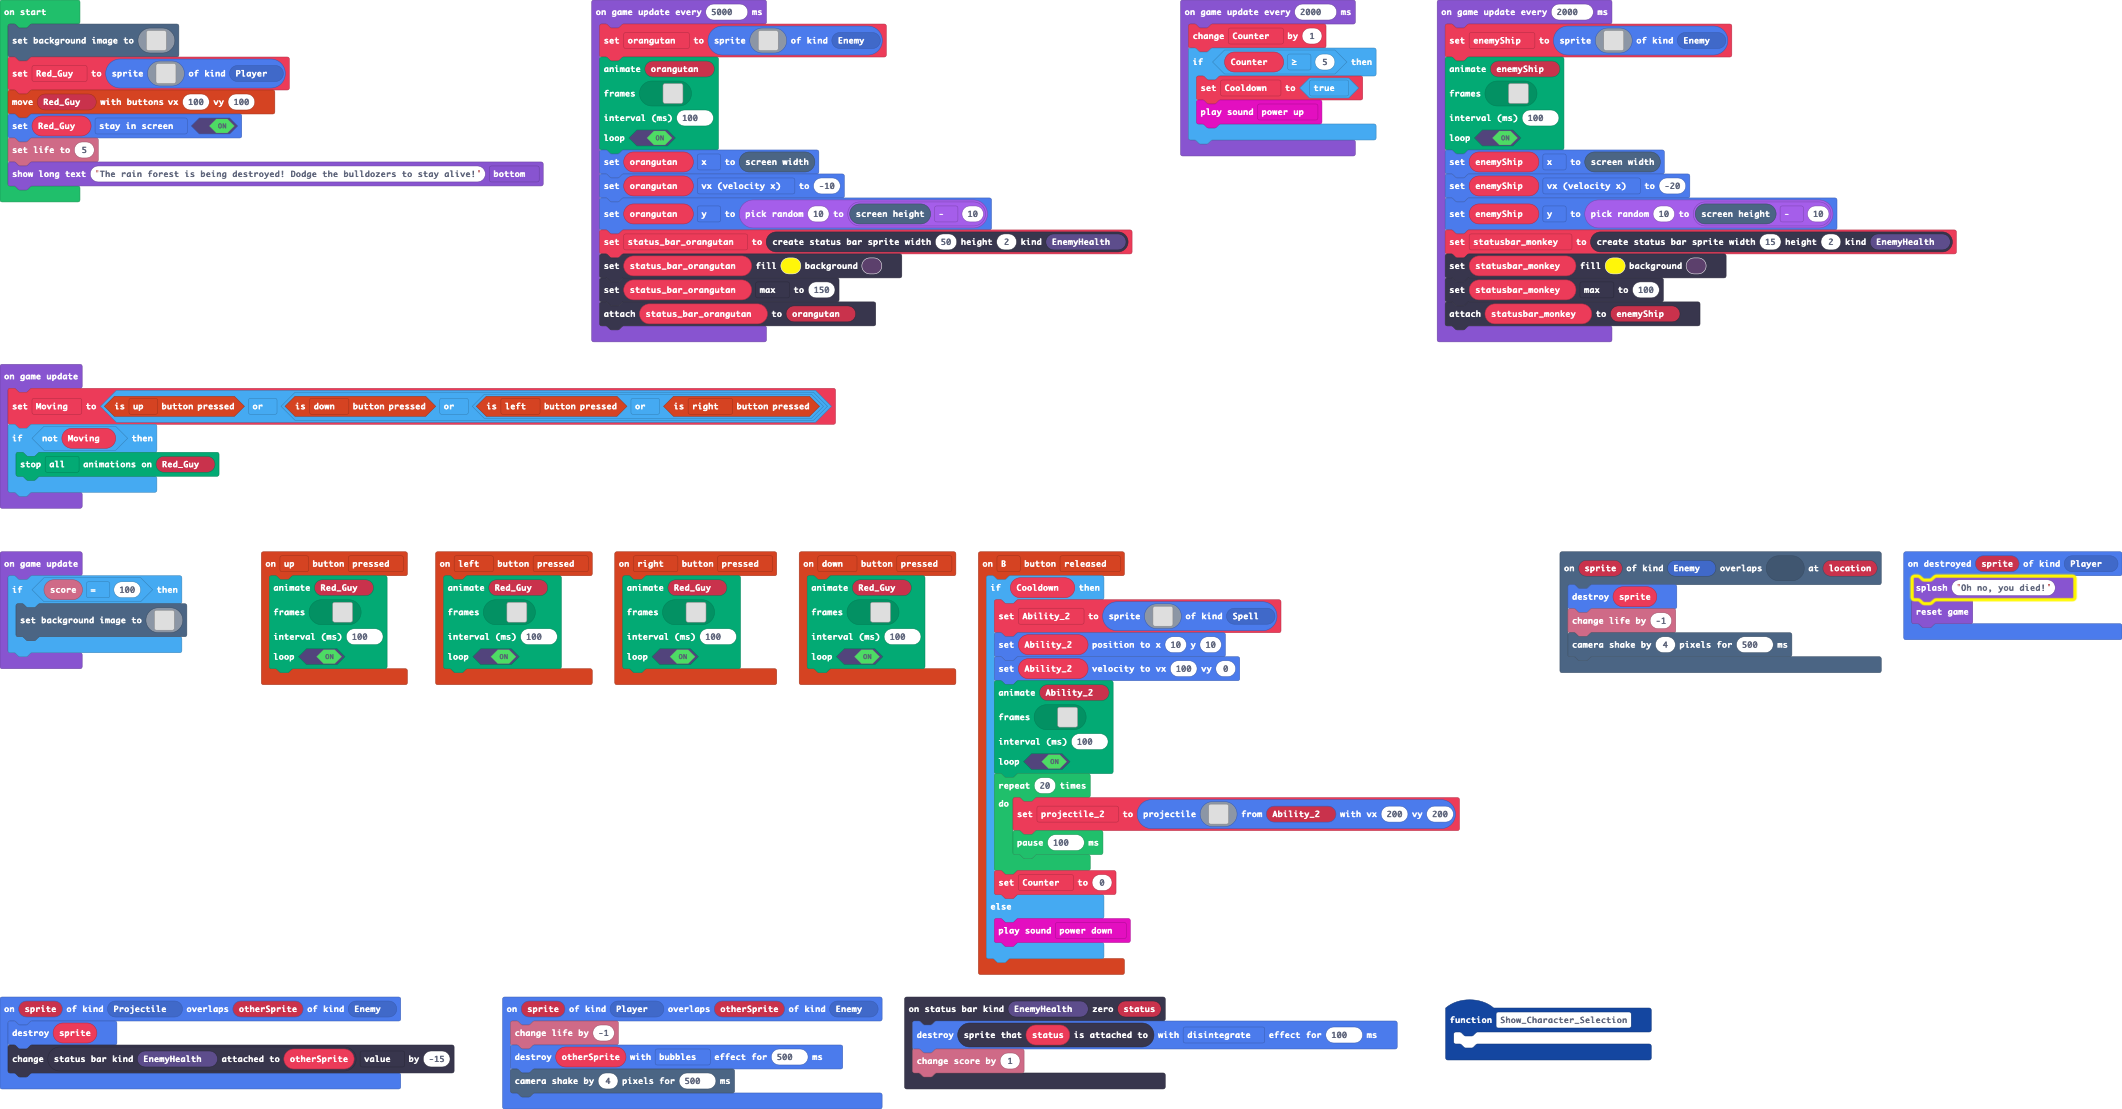
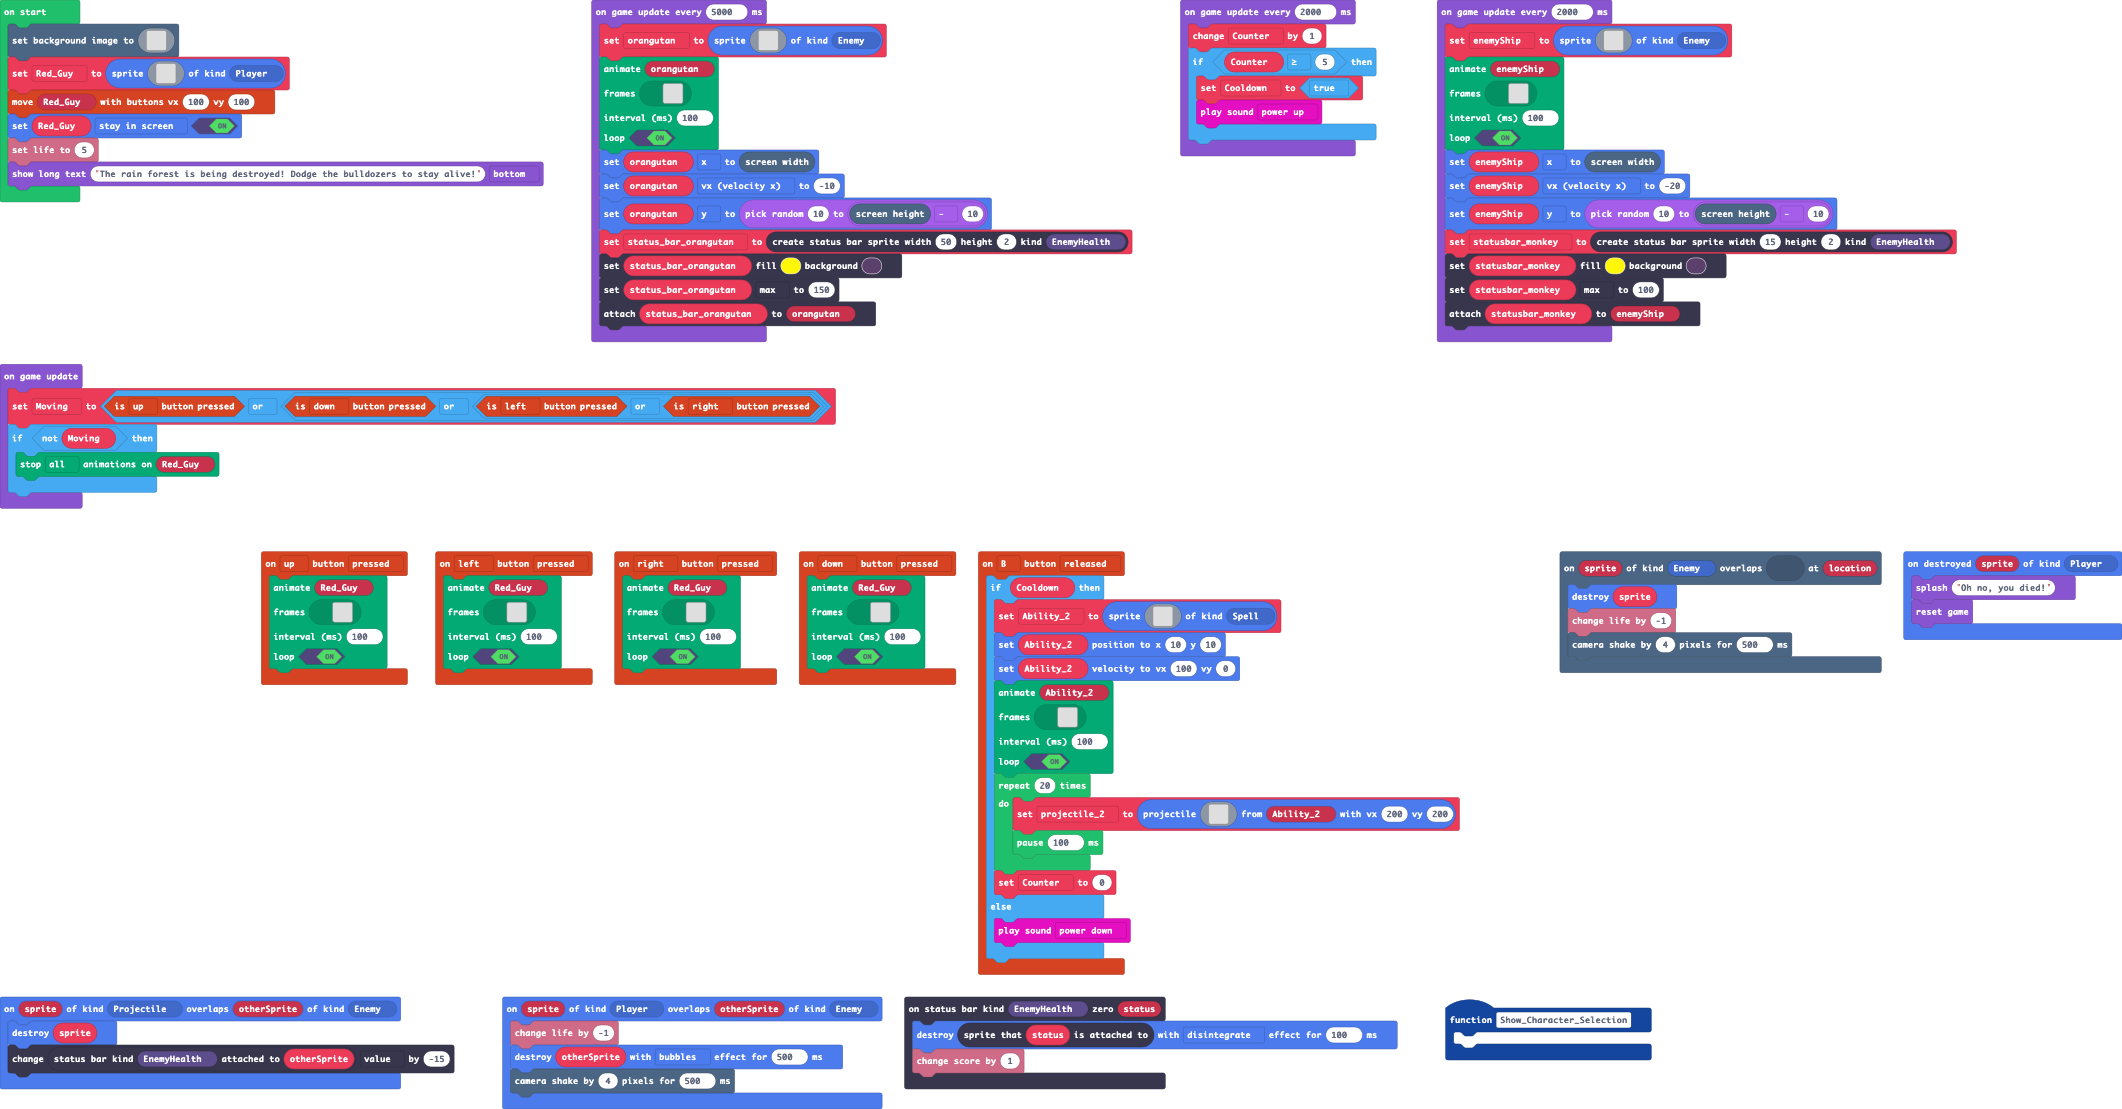
Update main.blocks, main.ts

Changed region(s): [[0.0, 0.4905, 0.0933, 0.6132], [0.902, 0.4905, 0.9642, 0.5518]]

diff --git a/main.ts b/main.ts
@@ -714,132 +714,6 @@ game.onUpdate(function () {
         animation.stopAnimation(animation.AnimationTypes.All, Red_Guy)
     }
 })
-game.onUpdate(function () {
-    if (info.score() == 100) {
-        scene.setBackgroundImage(img`
-            ffffffffffffffffffffffffffffffffffffffffffffffffffffffffffffffffffffffffffffffffffffffffffffffffffffffffffffffffffffffffffffffffffffffffffffffffffffffffffffffff
-            ffffffffffffffffffffffffffffffffffffffffffffffffffffffffffffffffffffffffffffffffffffffffffffffffffffffffffffffffffffffffffffffffffffffffffffffffffffffffffffffff
-            ffffffffffffffffffffffffffffffffffffffffffffffffffffffffffffffffffffffffffffffffffffffffffffffffffffffffffffffffffffffffffffffffffffffffffffffffffffffffffffffff
-            ffffffffffffffffffffffffffffffffffffffffffffffffffffffffffffffffffffffffffffffffffffffffffffffffffffffffffffffffffffffffffffffffffffffffffffffffffffffffffffffff
-            ffffffffffffffffffffffffffffffffffffffffffffffffffffffffffffffffffffffffffffffffffffffffffffffffffffffffffffffffffffffffffffffffffffffffffffffffffffffffffffffff
-            ffffffffffffffffffffffffffffffffffffffffffffffffffffffffffffffffffffffffffffffffffffffffffffffffffffffffffffffffffffffffffffffffffffffffffffffffffffffffffffffff
-            ffffffffffffffffffffffffffffffffffffffffffffffffffffffffffffffffffffffffffffffffffffffffffffffffffffffffffffffffffffffffffffffffffffffffffffffffffffffffffffffff
-            ffffffffffffffffffffffffffffffffffffffffffffffffffffffffffffffffffffffffffffffffffffffffffffffffffffffffffffffffffffffffffffffffffffffffffffffffffffffffffffffff
-            ffffffffffffffffffffffffffffffffffffffffffffffffffffffffffffffffffffffffffffffffffffffffffffffffffffffffffffffffffffffffffffffffffffffffffffffffffffffffffffffff
-            ffffffffffffffffffffffffffffffffffffffffffffffffffffffffffffffffffffffffffffffffffffffffffffffffffffffffffffffffffffffffffffffffffffffffffffffffffffffffffffffff
-            ffffffffffffffffffffffffffffffffffffffffffffffffffffffffffffffffffffffffffffffffffffffffffffffffffffffffffffffffffffffffffffffffffffffffffffffffffffffffffffffff
[73 lines of base64/hex data omitted]
-            ffffffffffffffffffffffffffffffffffffffffffffffffffffffffffffffffffffffffffffffffffffffffffffffffffffffffffffffffffffffffffffffffffffffffffffffffffffffffffffffff
-            ffffffffffffffffffffffffffffffffffffffffffffffffffffffffffffffffffffffffffffffffffffffffffffffffffffffffffffffffffffffffffffffffffffffffffffffffffffffffffffffff
-            ffffffffffffffffffffffffffffffffffffffffffffffffffffffffffffffffffffffffffffffffffffffffffffffffffffffffffffffffffffffffffffffffffffffffffffffffffffffffffffffff
-            ffffffffffffffffffffffffffffffffffffffffffffffffffffffffffffffffffffffffffffffffffffffffffffffffffffffffffffffffffffffffffffffffffffffffffffffffffffffffffffffff
-            ffffffffffffffffffffffffffffffffffffffffffffffffffffffffffffffffffffffffffffffffffffffffffffffffffffffffffffffffffffffffffffffffffffffffffffffffffffffffffffffff
-            ffffffffffffffffffffffffffffffffffffffffffffffffffffffffffffffffffffffffffffffffffffffffffffffffffffffffffffffffffffffffffffffffffffffffffffffffffffffffffffffff
-            ffffffffffffffffffffffffffffffffffffffffffffffffffffffffffffffffffffffffffffffffffffffffffffffffffffffffffffffffffffffffffffffffffffffffffffffffffffffffffffffff
-            ffffffffffffffffffffffffffffffffffffffffffffffffffffffffffffffffffffffffffffffffffffffffffffffffffffffffffffffffffffffffffffffffffffffffffffffffffffffffffffffff
-            ffffffffffffffffffffffffffffffffffffffffffffffffffffffffffffffffffffffffffffffffffffffffffffffffffffffffffffffffffffffffffffffffffffffffffffffffffffffffffffffff
-            ffffffffffffffffffffffffffffffffffffffffffffffffffffffffffffffffffffffffffffffffffffffffffffffffffffffffffffffffffffffffffffffffffffffffffffffffffffffffffffffff
-            ffffffffffffffffffffffffffffffffffffffffffffffffffffffffffffffffffffffffffffffffffffffffffffffffffffffffffffffffffffffffffffffffffffffffffffffffffffffffffffffff
-            ffffffffffffffffffffffffffffffffffffffffffffffffffffffffffffffffffffffffffffffffffffffffffffffffffffffffffffffffffffffffffffffffffffffffffffffffffffffffffffffff
-            ffffffffffffffffffffffffffffffffffffffffffffffffffffffffffffffffffffffffffffffffffffffffffffffffffffffffffffffffffffffffffffffffffffffffffffffffffffffffffffffff
-            ffffffffffffffffffffffffffffffffffffffffffffffffffffffffffffffffffffffffffffffffffffffffffffffffffffffffffffffffffffffffffffffffffffffffffffffffffffffffffffffff
-            ffffffffffffffffffffffffffffffffffffffffffffffffffffffffffffffffffffffffffffffffffffffffffffffffffffffffffffffffffffffffffffffffffffffffffffffffffffffffffffffff
-            ffffffffffffffffffffffffffffffffffffffffffffffffffffffffffffffffffffffffffffffffffffffffffffffffffffffffffffffffffffffffffffffffffffffffffffffffffffffffffffffff
-            ffffffffffffffffffffffffffffffffffffffffffffffffffffffffffffffffffffffffffffffffffffffffffffffffffffffffffffffffffffffffffffffffffffffffffffffffffffffffffffffff
-            ffffffffffffffffffffffffffffffffffffffffffffffffffffffffffffffffffffffffffffffffffffffffffffffffffffffffffffffffffffffffffffffffffffffffffffffffffffffffffffffff
-            ffffffffffffffffffffffffffffffffffffffffffffffffffffffffffffffffffffffffffffffffffffffffffffffffffffffffffffffffffffffffffffffffffffffffffffffffffffffffffffffff
-            ffffffffffffffffffffffffffffffffffffffffffffffffffffffffffffffffffffffffffffffffffffffffffffffffffffffffffffffffffffffffffffffffffffffffffffffffffffffffffffffff
-            ffffffffffffffffffffffffffffffffffffffffffffffffffffffffffffffffffffffffffffffffffffffffffffffffffffffffffffffffffffffffffffffffffffffffffffffffffffffffffffffff
-            ffffffffffffffffffffffffffffffffffffffffffffffffffffffffffffffffffffffffffffffffffffffffffffffffffffffffffffffffffffffffffffffffffffffffffffffffffffffffffffffff
-            ffffffffffffffffffffffffffffffffffffffffffffffffffffffffffffffffffffffffffffffffffffffffffffffffffffffffffffffffffffffffffffffffffffffffffffffffffffffffffffffff
-            ffffffffffffffffffffffffffffffffffffffffffffffffffffffffffffffffffffffffffffffffffffffffffffffffffffffffffffffffffffffffffffffffffffffffffffffffffffffffffffffff
-            ffffffffffffffffffffffffffffffffffffffffffffffffffffffffffffffffffffffffffffffffffffffffffffffffffffffffffffffffffffffffffffffffffffffffffffffffffffffffffffffff
-            ffffffffffffffffffffffffffffffffffffffffffffffffffffffffffffffffffffffffffffffffffffffffffffffffffffffffffffffffffffffffffffffffffffffffffffffffffffffffffffffff
-            ffffffffffffffffffffffffffffffffffffffffffffffffffffffffffffffffffffffffffffffffffffffffffffffffffffffffffffffffffffffffffffffffffffffffffffffffffffffffffffffff
-            ffffffffffffffffffffffffffffffffffffffffffffffffffffffffffffffffffffffffffffffffffffffffffffffffffffffffffffffffffffffffffffffffffffffffffffffffffffffffffffffff
-            ffffffffffffffffffffffffffffffffffffffffffffffffffffffffffffffffffffffffffffffffffffffffffffffffffffffffffffffffffffffffffffffffffffffffffffffffffffffffffffffff
-            ffffffffffffffffffffffffffffffffffffffffffffffffffffffffffffffffffffffffffffffffffffffffffffffffffffffffffffffffffffffffffffffffffffffffffffffffffffffffffffffff
-            ffffffffffffffffffffffffffffffffffffffffffffffffffffffffffffffffffffffffffffffffffffffffffffffffffffffffffffffffffffffffffffffffffffffffffffffffffffffffffffffff
-            ffffffffffffffffffffffffffffffffffffffffffffffffffffffffffffffffffffffffffffffffffffffffffffffffffffffffffffffffffffffffffffffffffffffffffffffffffffffffffffffff
-            ffffffffffffffffffffffffffffffffffffffffffffffffffffffffffffffffffffffffffffffffffffffffffffffffffffffffffffffffffffffffffffffffffffffffffffffffffffffffffffffff
-            ffffffffffffffffffffffffffffffffffffffffffffffffffffffffffffffffffffffffffffffffffffffffffffffffffffffffffffffffffffffffffffffffffffffffffffffffffffffffffffffff
-            ffffffffffffffffffffffffffffffffffffffffffffffffffffffffffffffffffffffffffffffffffffffffffffffffffffffffffffffffffffffffffffffffffffffffffffffffffffffffffffffff
-            ffffffffffffffffffffffffffffffffffffffffffffffffffffffffffffffffffffffffffffffffffffffffffffffffffffffffffffffffffffffffffffffffffffffffffffffffffffffffffffffff
-            `)
-    }
-})
 game.onUpdateInterval(5000, function () {
     orangutan = sprites.create(img`
         . . . . f f f f f . . . . . . . 
